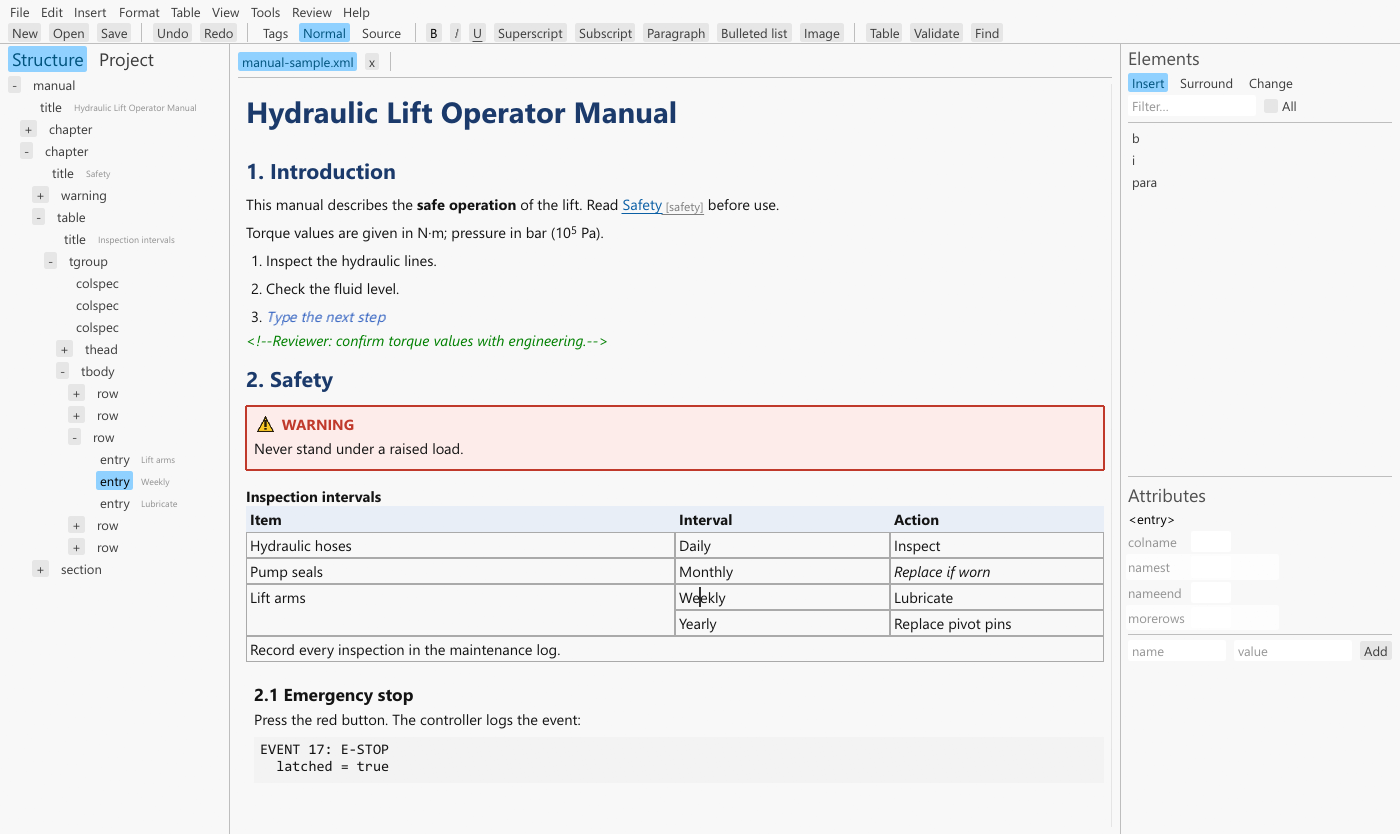
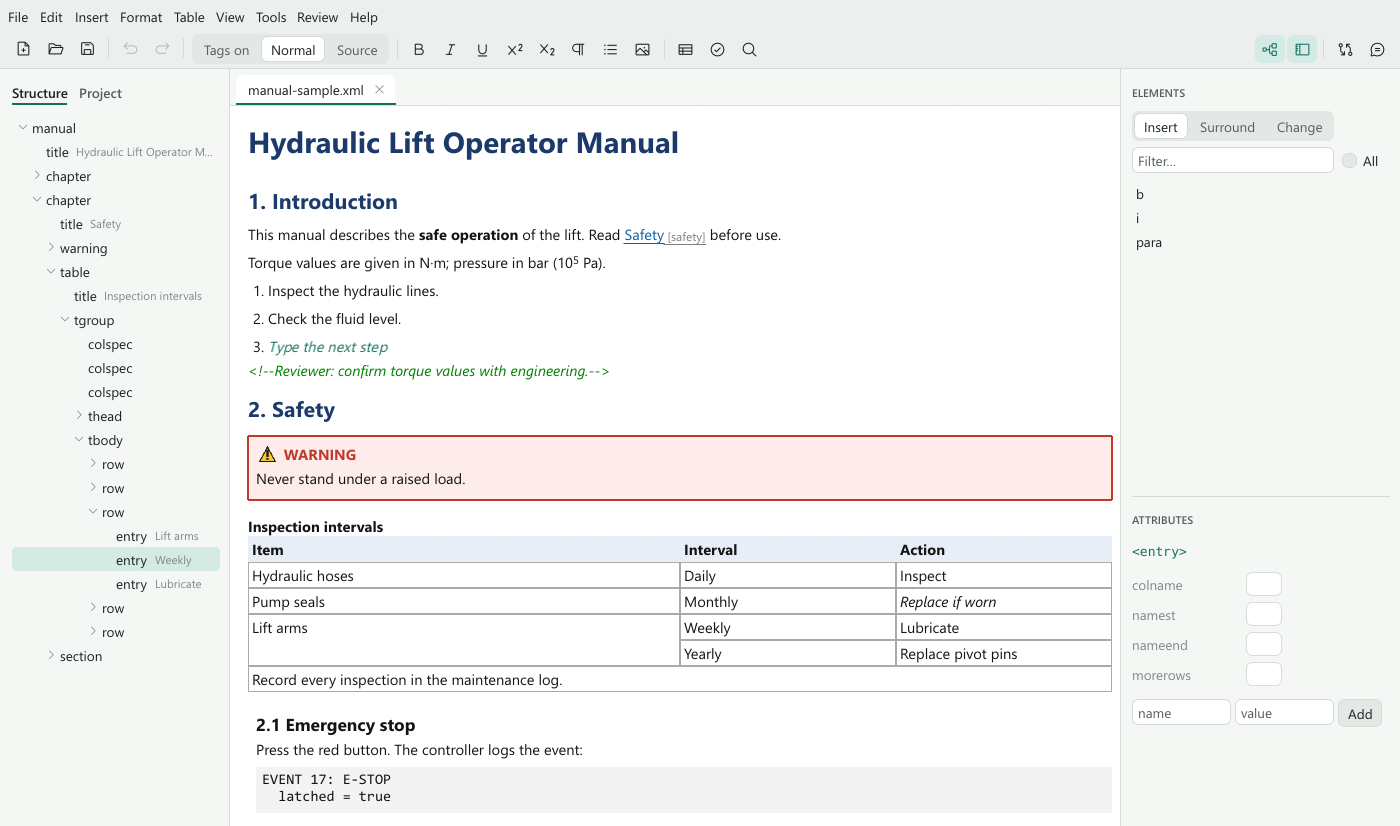
Attribute panel sizing, new README screenshots, UI design notes

diff --git a/crates/xylem-app/src/panels.rs b/crates/xylem-app/src/panels.rs
@@ -385,7 +385,10 @@ pub fn attributes(ui: &mut Ui, ds: &DocState, st: &mut PanelState, out: &mut Vec
         .show(ui, |ui| {
             // Names get a share of the panel, so long ones (S1000D's
             // modelIdentCode) fit when the panel is widened.
-            let name_w = (ui.available_width() * 0.42).clamp(80.0, 180.0);
+            let total = ui.available_width();
+            let name_w = (total * 0.42).clamp(80.0, 180.0);
+            // Editor width: what is left after the name and the remove button.
+            let edit_w = (total - name_w - 20.0 - 2.0 * 6.0).max(60.0);
             egui::Grid::new(("attr-grid", el))
                 .num_columns(3)
                 .spacing([6.0, 4.0])
@@ -404,10 +407,7 @@ pub fn attributes(ui: &mut Ui, ds: &DocState, st: &mut PanelState, out: &mut Vec
                         } else {
                             p.text_faint
                         };
-                        let lr = ui.add_sized(
-                            [name_w, 22.0],
-                            egui::Label::new(RichText::new(text).color(color)).truncate(),
-                        );
+                        let lr = name_cell(ui, name_w, RichText::new(text).color(color));
                         let tip = match (&d.documentation, d.required) {
                             (Some(t), true) => format!("{} (required)\n{t}", d.name),
                             (Some(t), false) => format!("{}\n{t}", d.name),
@@ -417,6 +417,7 @@ pub fn attributes(ui: &mut Ui, ds: &DocState, st: &mut PanelState, out: &mut Vec
                         lr.on_hover_text(tip);
                         attr_editor(
                             ui,
+                            edit_w,
                             el,
                             &d.name,
                             current.as_deref(),
@@ -442,21 +443,31 @@ pub fn attributes(ui: &mut Ui, ds: &DocState, st: &mut PanelState, out: &mut Vec
                             && !a.name.starts_with("xmlns")
                             && !a.name.starts_with("xsi:")
                             && !a.name.starts_with("xml:");
-                        let lr = ui.add_sized(
-                            [name_w, 22.0],
-                            egui::Label::new(RichText::new(&a.name).color(if undeclared {
+                        let lr = name_cell(
+                            ui,
+                            name_w,
+                            RichText::new(&a.name).color(if undeclared {
                                 p.warning
                             } else {
                                 p.text_muted
-                            }))
-                            .truncate(),
+                            }),
                         );
                         if undeclared {
                             lr.on_hover_text("Not declared in the schema");
                         } else {
                             lr.on_hover_text(&a.name);
                         }
-                        attr_editor(ui, el, &a.name, Some(&a.value), None, &[], None, out);
+                        attr_editor(
+                            ui,
+                            edit_w,
+                            el,
+                            &a.name,
+                            Some(&a.value),
+                            None,
+                            &[],
+                            None,
+                            out,
+                        );
                         if remove_button(ui).clicked() {
                             out.push(PanelAction::RemoveAttr(el, a.name.clone()));
                         }
@@ -488,6 +499,20 @@ pub fn attributes(ui: &mut Ui, ds: &DocState, st: &mut PanelState, out: &mut Vec
         });
 }
 
+/// A left-aligned, truncated attribute name of a fixed width.
+fn name_cell(ui: &mut Ui, width: f32, text: RichText) -> egui::Response {
+    ui.allocate_ui_with_layout(
+        egui::vec2(width, 22.0),
+        egui::Layout::left_to_right(egui::Align::Center),
+        |ui| {
+            ui.set_min_width(width);
+            ui.set_max_width(width);
+            ui.add(egui::Label::new(text).truncate())
+        },
+    )
+    .inner
+}
+
 fn remove_button(ui: &mut Ui) -> egui::Response {
     let p = palette(ui.ctx());
     let r = ui.add(
@@ -501,6 +526,7 @@ fn remove_button(ui: &mut Ui) -> egui::Response {
 #[allow(clippy::too_many_arguments)]
 fn attr_editor(
     ui: &mut Ui,
+    w: f32,
     el: NodeId,
     name: &str,
     current: Option<&str>,
@@ -510,8 +536,6 @@ fn attr_editor(
     out: &mut Vec<PanelAction>,
 ) {
     let p = palette(ui.ctx());
-    // Name column, editor, remove button: leave room for the button.
-    let w = (ui.available_width() - 34.0).max(60.0);
     if let Some(f) = fixed {
         ui.label(RichText::new(f).color(p.text_faint))
             .on_hover_text("Fixed value");

diff --git a/docs/ui-design.md b/docs/ui-design.md
@@ -1,0 +1,49 @@
+# UI design notes
+
+How the editor's own interface is put together, for anyone changing it. The
+look of a *document* is not covered here: that comes from its doctype
+package's stylesheet.
+
+## Theme
+
+`crates/xylem-app/src/ui/theme.rs` defines a `Palette` for each theme
+(chrome, panel, surface, raised, text in three strengths, one accent, and
+success/warning/danger with soft backgrounds) plus spacing, radius and type
+scales. Nothing else in the app picks colours directly; read the palette with
+`ui::palette(ctx)`.
+
+A unit test checks text contrast for every pair the UI uses, in both themes
+(7:1 for body text, 4.5:1 for secondary and status text). Tag chip colours
+come from a fixed set of hues and have their own contrast test.
+
+The theme follows the system until the user picks one in Preferences or the
+View menu. `XYLEM_THEME=light|dark` overrides both, for screenshots.
+
+## Components
+
+`crates/xylem-app/src/ui/widgets.rs` holds the shared pieces: icon buttons,
+primary, secondary and danger buttons, segmented controls, panel tabs,
+section headers, list rows, badges, notices, cards, two-column forms and the
+dialog shell. Prefer adding a component there to styling a widget in place.
+
+Dialogs (`Dialog`) have a title, a close button and a footer from
+`dialog_footer`. The primary action is rightmost; Cancel sits to its left.
+Enter confirms (except inside a multi-line field) and Escape closes. Modal
+dialogs dim the window; tool windows such as Find stay modeless.
+
+Icons are Phosphor (MIT), embedded through the `egui-phosphor` crate.
+
+## Layout
+
+Menu bar and toolbar on top, document tabs over the document, side panels
+left (Structure, Project) and right (Elements, Attributes, Review), issues
+below the document, status bar at the bottom. In windows narrower than about
+1000 points the right panels give way first, then the left one under 760.
+
+## Testing the UI
+
+Scripted runs (`XYLEM_SCRIPT`) find widgets by label, text or command name,
+so they keep working when the layout changes. Every shared component
+registers its label for `clickui`. `XYLEM_WINDOW_POS` and `XYLEM_WINDOW_SIZE`
+place and size test windows; scripted windows never take focus, have no
+taskbar button and run at idle priority.

diff --git a/README.md b/README.md
@@ -143,6 +143,8 @@ The available steps are `wait N`, `type T`, `paste T`, `drop FILE`, `ctrlclick X
 
 Scripted runs never open a web browser: Print preview writes its page to `xylem-print` in the temporary folder and reports the path. Set `XYLEM_NO_BROWSER=1` to get the same behaviour outside the harness.
 
+Set `XYLEM_WINDOW_POS=x,y` (and optionally `XYLEM_WINDOW_SIZE=w,h`) to put test windows somewhere out of the way, such as a second monitor; they never take focus. [docs/ui-design.md](docs/ui-design.md) describes the theme and shared UI components.
+
 See [PARITY.md](PARITY.md) for the XMAX feature checklist.
 
 ## License
